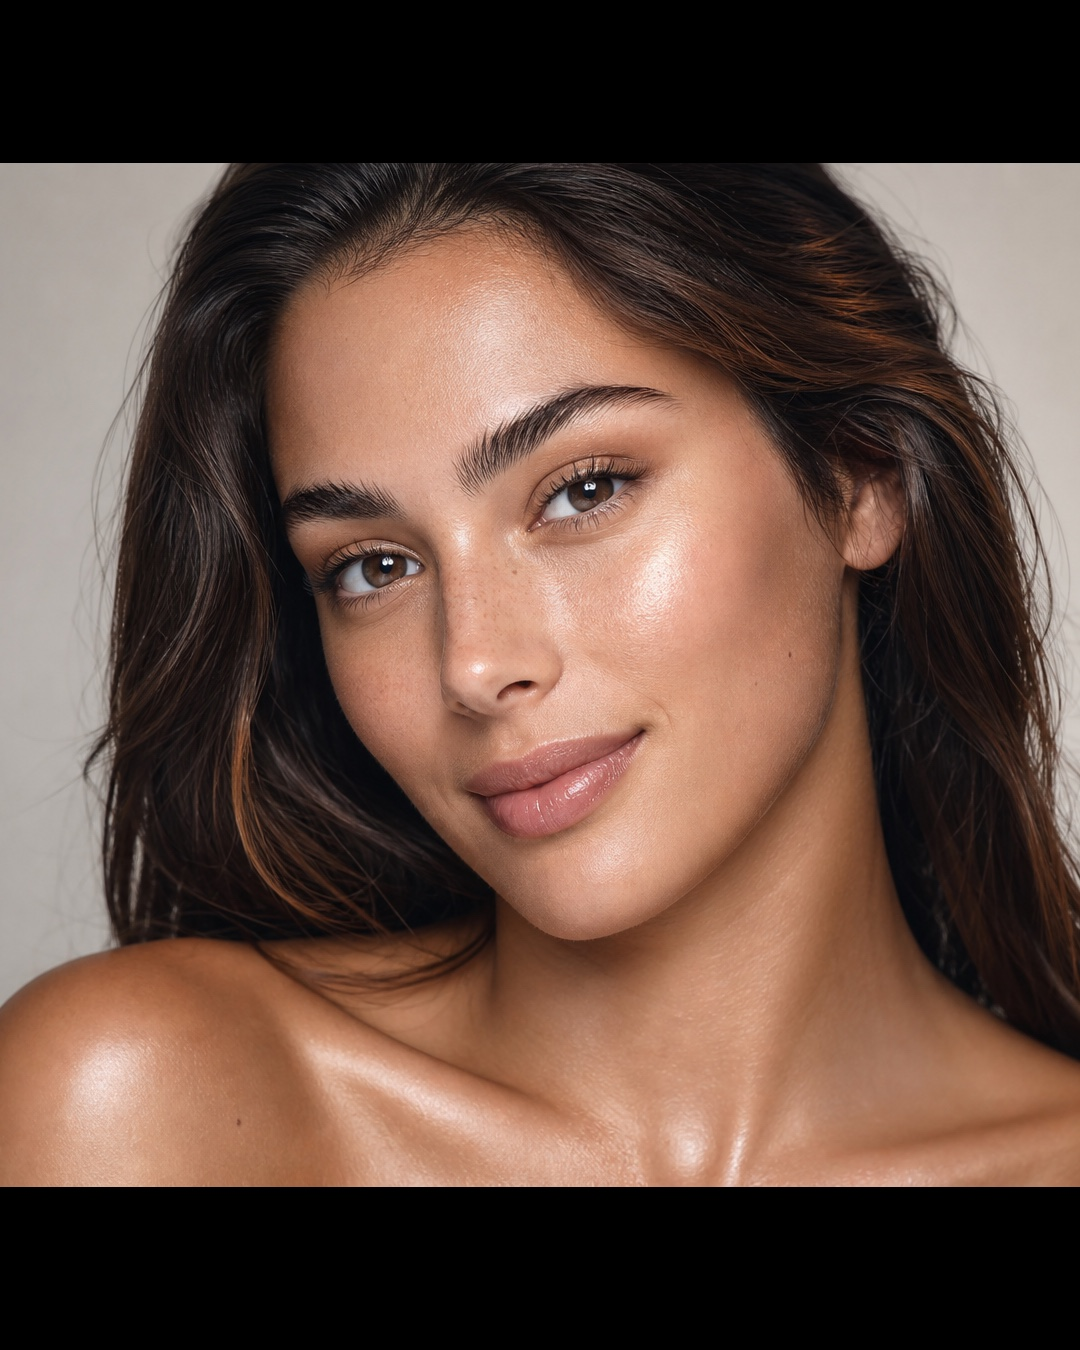
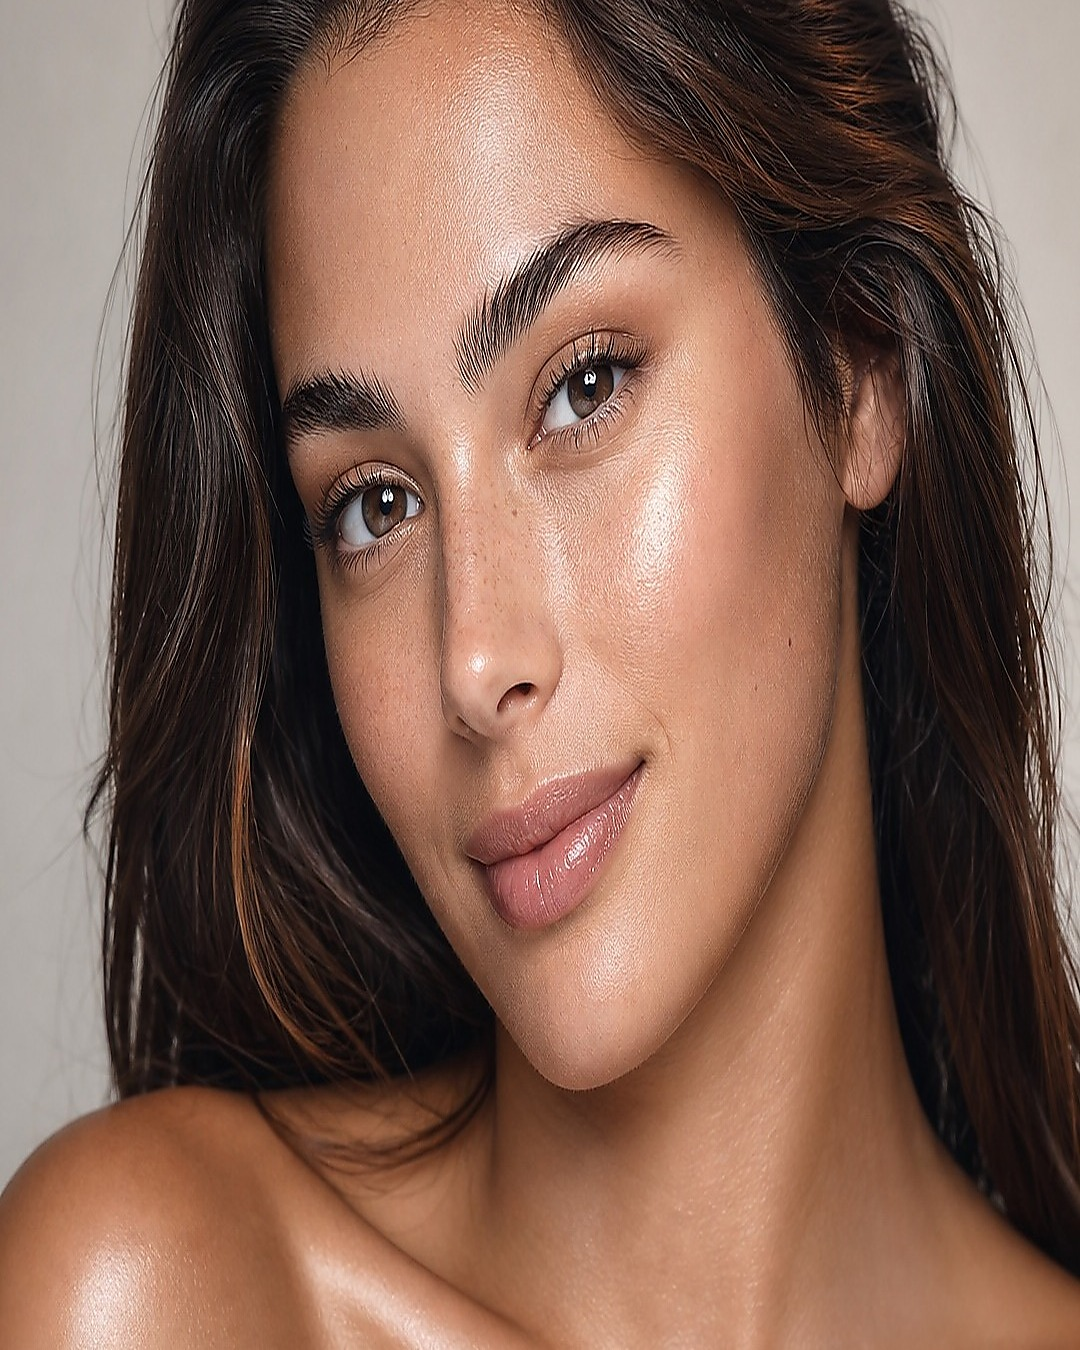
Doladit ostrost hero fotky, odstranit černé pruhy u before/after a dát popisek do černého bloku.
Hero přirozenější, BA fotky bez letterboxu, vlastní černý proužek s textem.

diff --git a/public/lume/index.html b/public/lume/index.html
@@ -235,7 +235,8 @@ a{color:inherit;text-decoration:none}
   background:linear-gradient(135deg,#9b7836,#f1deA0 45%,#c8a24e 70%,#9b7836);box-shadow:0 8px 24px rgba(150,115,45,.55);display:flex;align-items:center;justify-content:center;color:#231d10;font-size:1rem;letter-spacing:-.05em}
 .ba-lab{position:absolute;top:5%;z-index:6;font-family:var(--sans);font-weight:600;font-size:.6rem;letter-spacing:.24em;text-transform:uppercase;color:var(--ink);background:rgba(255,255,255,.4);backdrop-filter:blur(6px);border-radius:99px;padding:5px 12px}
 .ba-lab.bef{left:6%}.ba-lab.aft{right:6%}
-.ba-cap{position:absolute;left:0;right:0;bottom:5%;z-index:6;text-align:center;font-family:var(--sans);font-weight:500;font-size:.58rem;letter-spacing:.22em;text-transform:uppercase;color:var(--ink2)}
+.ba::after{content:'';position:absolute;left:0;right:0;bottom:0;height:46px;background:#000;z-index:5;opacity:.92}
+.ba-cap{position:absolute;left:0;right:0;bottom:0;z-index:6;text-align:center;font-family:var(--sans);font-weight:500;font-size:.58rem;letter-spacing:.22em;text-transform:uppercase;color:rgba(244,242,236,.92);line-height:46px}
 
 /* ===== testimonials ===== */
 .tg{display:grid;grid-template-columns:repeat(3,1fr);gap:26px;margin-top:46px}
